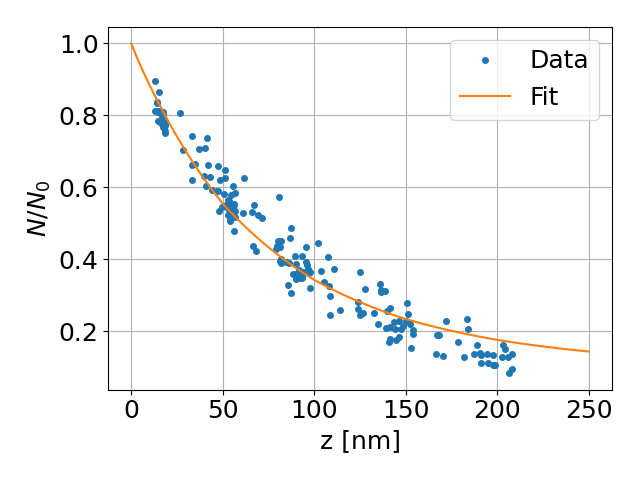
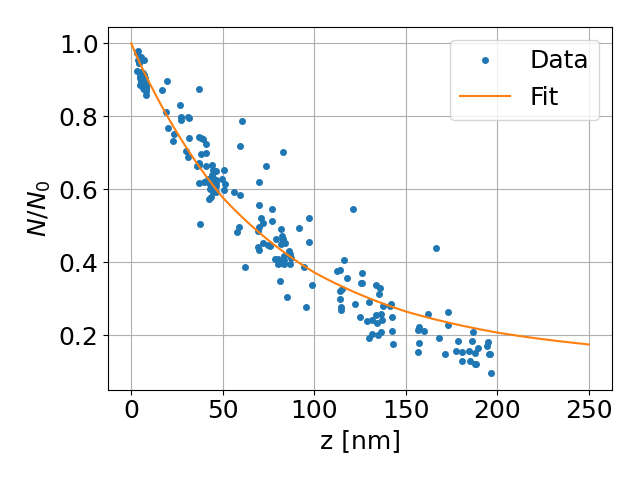
add check on number of localizations after pre-clustering

Changed region(s): [[0.0938, 0.0938, 0.9375, 0.7812], [0.4688, 0.4375, 0.5, 0.4688], [0.4375, 0.3125, 0.4688, 0.3438]]

diff --git a/src/picasimpler/config/config_var.py b/src/picasimpler/config/config_var.py
@@ -12,21 +12,21 @@ MAX_ON_FRAMES_PERC = 0.8
 # origami structure
 HB_Z_0 = 8.3
 HB_Z_DIST_NM = [38.7, 41.0, 56.4, 54.1]
-Z_SITES_NM = [
-    HB_Z_0,
-    HB_Z_0 + HB_Z_DIST_NM[0],
-    HB_Z_0 + HB_Z_DIST_NM[0] + HB_Z_DIST_NM[1],
-    HB_Z_0 + HB_Z_DIST_NM[0] + HB_Z_DIST_NM[1] + HB_Z_DIST_NM[2],
-    HB_Z_0 + HB_Z_DIST_NM[0] + HB_Z_DIST_NM[1] + HB_Z_DIST_NM[2] + HB_Z_DIST_NM[3],
-]
-#Z_SITES_NM = [7, 41.6, 76.9, 113.5]
+#Z_SITES_NM = [
+#    HB_Z_0,
+#    HB_Z_0 + HB_Z_DIST_NM[0],
+#    HB_Z_0 + HB_Z_DIST_NM[0] + HB_Z_DIST_NM[1],
+#    HB_Z_0 + HB_Z_DIST_NM[0] + HB_Z_DIST_NM[1] + HB_Z_DIST_NM[2],
+#    HB_Z_0 + HB_Z_DIST_NM[0] + HB_Z_DIST_NM[1] + HB_Z_DIST_NM[2] + HB_Z_DIST_NM[3],
+#]
+Z_SITES_NM = [7, 41.6, 76.9, 113.5]
 # clustering
 PRECLUST_GAMMA_DEF = 0.05
 PRECLUST_EPS_DEF = 40
 MAX_PRECLUST_GAMMA = 1/len(Z_SITES_NM)
 MIN_GOOD_LOC = 100
-#N_CLUST_EXP = 4
-N_CLUST_EXP = 5
+N_CLUST_EXP = 4
+#N_CLUST_EXP = 5
 DF_REF_VAL_NM = 120
 # setup parameters
 LAMDBA_EXC_DEF = 560

diff --git a/src/picasimpler/main/analysis.py b/src/picasimpler/main/analysis.py
@@ -216,6 +216,8 @@ class Clusterization:
         """
         This function executes pre-clustering de-noising for a single origami
         """
+        if len(locs) < MIN_GOOD_LOC:
+            return
         min_clust_size = int(self.params.preclust_gamma*len(locs))
         loc_rescal = np.stack(
             (locs[:, 0],
